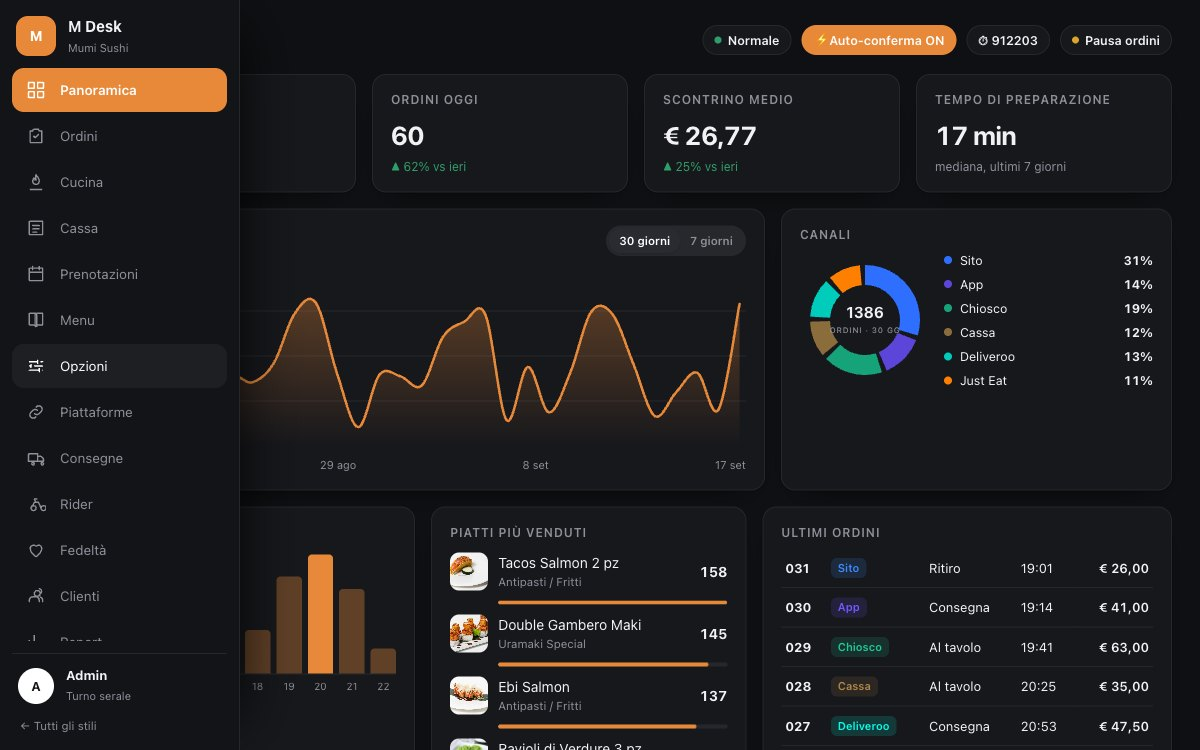
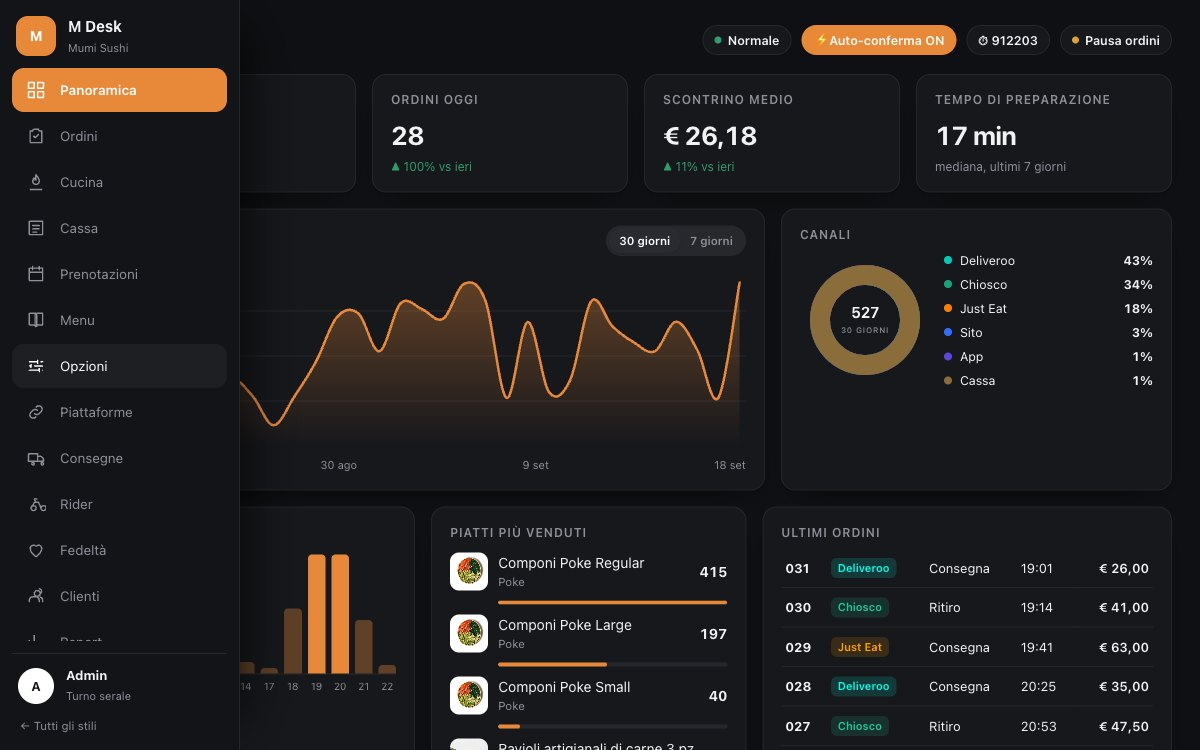
feat(templates): M Desk 后台模版换成真实 30 天聚合（按 0.72 缩放）、真实热销榜、海报重出

diff --git a/public/templates/mdesk-dashboard/assets/core.js b/public/templates/mdesk-dashboard/assets/core.js
@@ -38,8 +38,10 @@
   const CH = [['Sito', '#2f6fff'], ['App', '#5b46d9'], ['Chiosco', '#16a37a'], ['Cassa', '#8a6d3b'], ['Deliveroo', '#00ccbc'], ['Just Eat', '#ff8000']];
   const TYPES = ['Consegna', 'Ritiro', 'Al tavolo'];
   const STATUS = ['In attesa', 'Confermato', 'In preparazione', 'Pronto', 'In consegna', 'Completato'];
+  // channel mix in the same proportion as the real last 30 days (Deliveroo > kiosk > Just Eat > web)
+  const MIX = ['Deliveroo', 'Chiosco', 'Just Eat', 'Deliveroo', 'Chiosco', 'Sito', 'Deliveroo', 'Just Eat', 'Chiosco'];
   const orders = Array.from({ length: 9 }, (_, i) => {
-    const ch = CH[i % CH.length], n = 1 + Math.floor(rnd() * 4);
+    const ch = CH.find((c) => c[0] === MIX[i]), n = 1 + Math.floor(rnd() * 4);
     const items = Array.from({ length: n }, () => ({ q: 1 + Math.floor(rnd() * 2), p: pick(D.menu) }));
     const total = items.reduce((s, x) => s + x.q * x.p.price, 0);
     const h = 19 + Math.floor(i / 3), m = String(Math.floor(rnd() * 60)).padStart(2, '0');
@@ -61,7 +63,7 @@
         <div class="card"><h3>Incassi <span class="seg" id="rangeSeg"><button class="on" data-r="30">30 giorni</button><button data-r="7">7 giorni</button></span></h3>
           <svg class="line-chart" viewBox="0 0 600 180" preserveAspectRatio="none" id="line"><defs><linearGradient id="areaFill" x1="0" y1="0" x2="0" y2="1"><stop offset="0" stop-color="var(--accent)" stop-opacity=".35"/><stop offset="1" stop-color="var(--accent)" stop-opacity="0"/></linearGradient></defs><line class="gridl" x1="0" x2="600" y1="45" y2="45"/><line class="gridl" x1="0" x2="600" y1="90" y2="90"/><line class="gridl" x1="0" x2="600" y1="135" y2="135"/><path class="area" id="area"/><path class="ln" id="ln"/></svg>
           <div class="axis" id="axis"></div></div>
-        <div class="card"><h3>Canali</h3><div class="donut-wrap"><svg class="donut" viewBox="0 0 130 130" id="donut"><g id="slices"></g><text x="65" y="63" id="dc1">${s.days.reduce((a, x) => a + x.n, 0)}</text><text class="sub" x="65" y="78" id="dc2">ORDINI · 30 GG</text></svg><div class="legend" id="legend"></div></div></div>
+        <div class="card"><h3>Canali</h3><div class="donut-wrap"><svg class="donut" viewBox="0 0 130 130" id="donut"><g id="slices"></g><text x="65" y="63" id="dc1">${s.days.reduce((a, x) => a + x.n, 0)}</text><text class="sub" x="65" y="78" id="dc2">30 GIORNI</text></svg><div class="legend" id="legend"></div></div></div>
       </div>
       <div class="r3">
         <div class="card"><h3>Ordini per ora</h3><div class="hours">${s.hours.map(([h, n]) => `<i style="--h:${n / peak * 100}%" data-h="${h}" class="${n === peak ? 'peak' : ''}"></i>`).join('')}</div><div class="hours-pad"></div></div>
@@ -71,10 +73,8 @@
       <p class="note">Dati dimostrativi: piatti, prezzi e foto sono quelli veri del menù; gli incassi sono ridimensionati.</p>`;
   }
   function topDishes() {
-    let s2 = 21; const r2 = () => (s2 = (s2 * 48271) % 2147483647) / 2147483647;
-    const top = D.menu.filter((p) => !/Componi|Gift/.test(p.name)).slice(0, 12).map((p) => ({ p, q: 40 + Math.floor(r2() * 120) })).sort((a, b) => b.q - a.q).slice(0, 5);
-    const max = top[0].q;
-    return top.map(({ p, q }) => `<div class="dish"><img src="${BASE}${p.img}" alt="" loading="lazy"><div>${p.name}<span>${p.cat}</span></div><b>${q}</b><div class="bar"><i style="--w:${q / max * 100}%"></i></div></div>`).join('');
+    const top = D.top.map(([name, cat, img, q]) => ({ name, cat, img, q })), max = top[0].q;
+    return top.map(({ name, cat, img, q }) => `<div class="dish"><img src="${BASE}${img}" alt="" loading="lazy"><div>${name}<span>${cat}</span></div><b>${q}</b><div class="bar"><i style="--w:${q / max * 100}%"></i></div></div>`).join('');
   }
   function wireOverview(root) {
     // line chart: 30 days vs last 7, morphed on the same 24 points
@@ -113,7 +113,7 @@
       el.addEventListener('pointerenter', on); el.addEventListener('pointerleave', off); l.addEventListener('pointerenter', on); l.addEventListener('pointerleave', off);
       return { el, l, name, pct };
     });
-    const sel = (i) => { slices.forEach((s, k) => { s.el.classList.toggle('out', k === i); s.l.classList.toggle('on', k === i); }); donut.classList.toggle('pick', i >= 0); legend.classList.toggle('pick', i >= 0); c1.textContent = i < 0 ? total : Math.round(slices[i].pct) + '%'; c2.textContent = i < 0 ? 'ORDINI · 30 GG' : slices[i].name.toUpperCase(); };
+    const sel = (i) => { slices.forEach((s, k) => { s.el.classList.toggle('out', k === i); s.l.classList.toggle('on', k === i); }); donut.classList.toggle('pick', i >= 0); legend.classList.toggle('pick', i >= 0); c1.textContent = i < 0 ? total : Math.round(slices[i].pct) + '%'; c2.textContent = i < 0 ? '30 GIORNI' : slices[i].name.toUpperCase(); };
   }
 
   function board() {

diff --git a/public/templates/mdesk-dashboard/assets/data.js b/public/templates/mdesk-dashboard/assets/data.js
@@ -1,6 +1,6 @@
 /* M Desk demo data.
    MENU: real dishes, prices and photos from Mumi Sushi Vimercate's live menu (public API, Sept 2026).
-   STATS: shaped like the restaurant's real last-30-days aggregates, with every figure scaled and
+   STATS: the restaurant's real last-30-days aggregates with every figure scaled and
    rounded — the curve, the channel mix and the hour profile are real, the euros are not. */
 window.MDESK = {
   menu: [
@@ -237,24 +237,8 @@ window.MDESK = {
   "allergens": []
  },
 ],
-  // ── placeholder stats (to be replaced by the anonymised aggregate) ──
-  stats: (function () {
-    let s = 5; const r = () => (s = (s * 48271) % 2147483647) / 2147483647;
-    const days = [];
-    const start = new Date(2026, 7, 20);
-    for (let i = 0; i < 30; i++) {
-      const d = new Date(start); d.setDate(start.getDate() + i);
-      const wd = d.getDay(); const w = wd === 5 || wd === 6 ? 1.45 : wd === 0 ? 1.2 : wd === 1 ? 0.7 : 1;
-      const n = Math.round((34 + r() * 14) * w);
-      days.push({ d: d.toISOString().slice(0, 10), n, rev: Math.round(n * (21 + r() * 6) * 10) / 10 });
-    }
-    return {
-      days,
-      channels: [["Sito", 31], ["App", 14], ["Chiosco", 19], ["Cassa", 12], ["Deliveroo", 13], ["Just Eat", 11]],
-      types: [["Consegna", 38], ["Ritiro", 41], ["Al tavolo", 21]],
-      hours: [[11, 6], [12, 22], [13, 26], [14, 9], [18, 14], [19, 31], [20, 38], [21, 27], [22, 8]],
-      pay: [["Carta", 46], ["Contanti", 22], ["Alla cassa", 19], ["Piattaforma", 13]],
-      prepMin: 17,
-    };
-  })(),
+  // top sellers, last 30 days (real ranking; quantities scaled like everything else)
+  top: [["Componi Poke Regular", "Poke", "componi-poke-regular.webp", 415], ["Componi Poke Large", "Poke", "componi-poke-large.webp", 197], ["Componi Poke Small", "Poke", "componi-poke-small.webp", 40], ["Ravioli artigianali di carne 3 pz", "Ravioli / Bao", "ravioli-di-carne-3-pz.webp", 28], ["Pad Thai", "Ravioli / Bao", "pad-thai.webp", 19]],
+  // ── last 30 days, shape real, figures scaled (see header) ──
+  stats: {"days": [{"d": "2026-08-20","n": 15,"rev": 319.8},{"d": "2026-08-21","n": 6,"rev": 215.5},{"d": "2026-08-22","n": 19,"rev": 465.3},{"d": "2026-08-23","n": 14,"rev": 481.5},{"d": "2026-08-24","n": 13,"rev": 253.2},{"d": "2026-08-25","n": 14,"rev": 390.4},{"d": "2026-08-26","n": 15,"rev": 337.5},{"d": "2026-08-27","n": 12,"rev": 234.3},{"d": "2026-08-28","n": 16,"rev": 337.0},{"d": "2026-08-29","n": 14,"rev": 456.1},{"d": "2026-08-30","n": 19,"rev": 612.8},{"d": "2026-08-31","n": 19,"rev": 625.3},{"d": "2026-09-01","n": 17,"rev": 492.8},{"d": "2026-09-02","n": 21,"rev": 660.8},{"d": "2026-09-03","n": 22,"rev": 640.3},{"d": "2026-09-04","n": 24,"rev": 605.9},{"d": "2026-09-05","n": 27,"rev": 728.6},{"d": "2026-09-06","n": 22,"rev": 669.3},{"d": "2026-09-07","n": 14,"rev": 330.0},{"d": "2026-09-08","n": 21,"rev": 595.3},{"d": "2026-09-09","n": 11,"rev": 350.6},{"d": "2026-09-10","n": 15,"rev": 392.3},{"d": "2026-09-11","n": 21,"rev": 667.8},{"d": "2026-09-12","n": 20,"rev": 579.6},{"d": "2026-09-13","n": 21,"rev": 524.2},{"d": "2026-09-14","n": 17,"rev": 492.7},{"d": "2026-09-15","n": 19,"rev": 596.4},{"d": "2026-09-16","n": 17,"rev": 497.6},{"d": "2026-09-17","n": 14,"rev": 331.1},{"d": "2026-09-18","n": 28,"rev": 732.9}],"channels": [["Deliveroo",43],["Chiosco",34],["Just Eat",18],["Sito",3],["App",1],["Cassa",1]],"types": [["Consegna",61],["Ritiro",30],["Al tavolo",8]],"hours": [[9,1],[10,2],[11,13],[12,25],[13,20],[14,4],[17,2],[18,22],[19,40],[20,40],[21,18],[22,3]],"pay": [["Piattaforma",60],["Alla cassa",35],["Contanti",4],["Carta",1],["Pos",1]],"prepMin": 17},
 };
